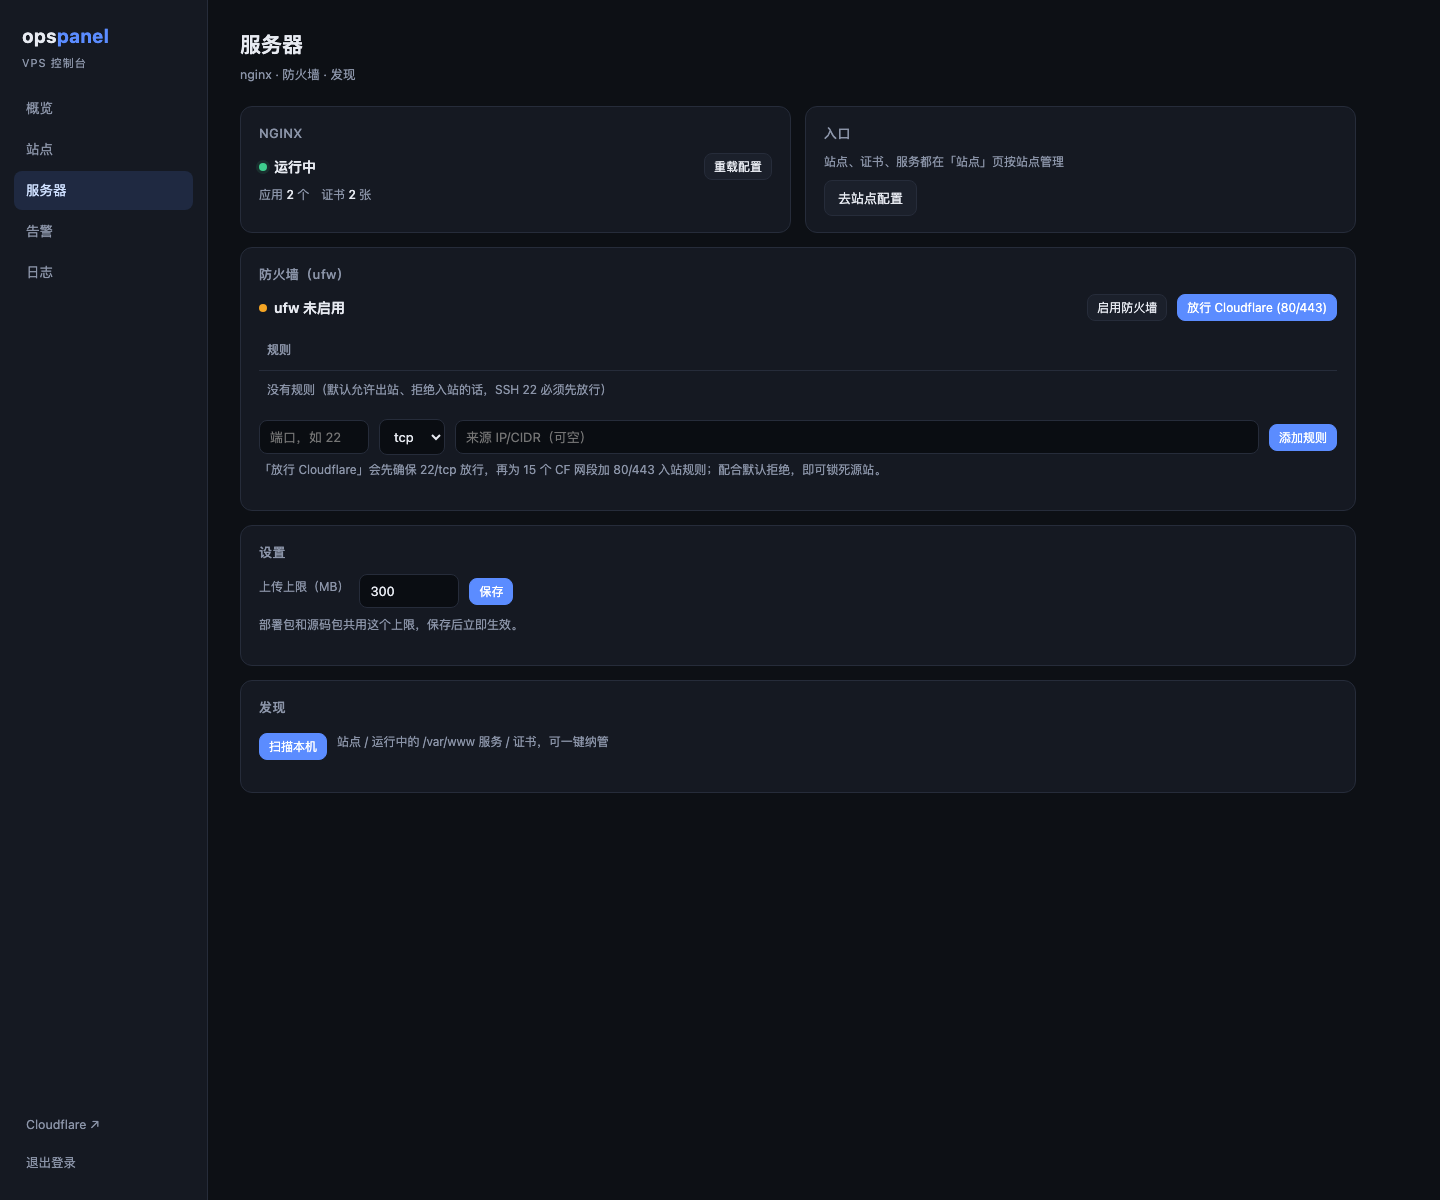
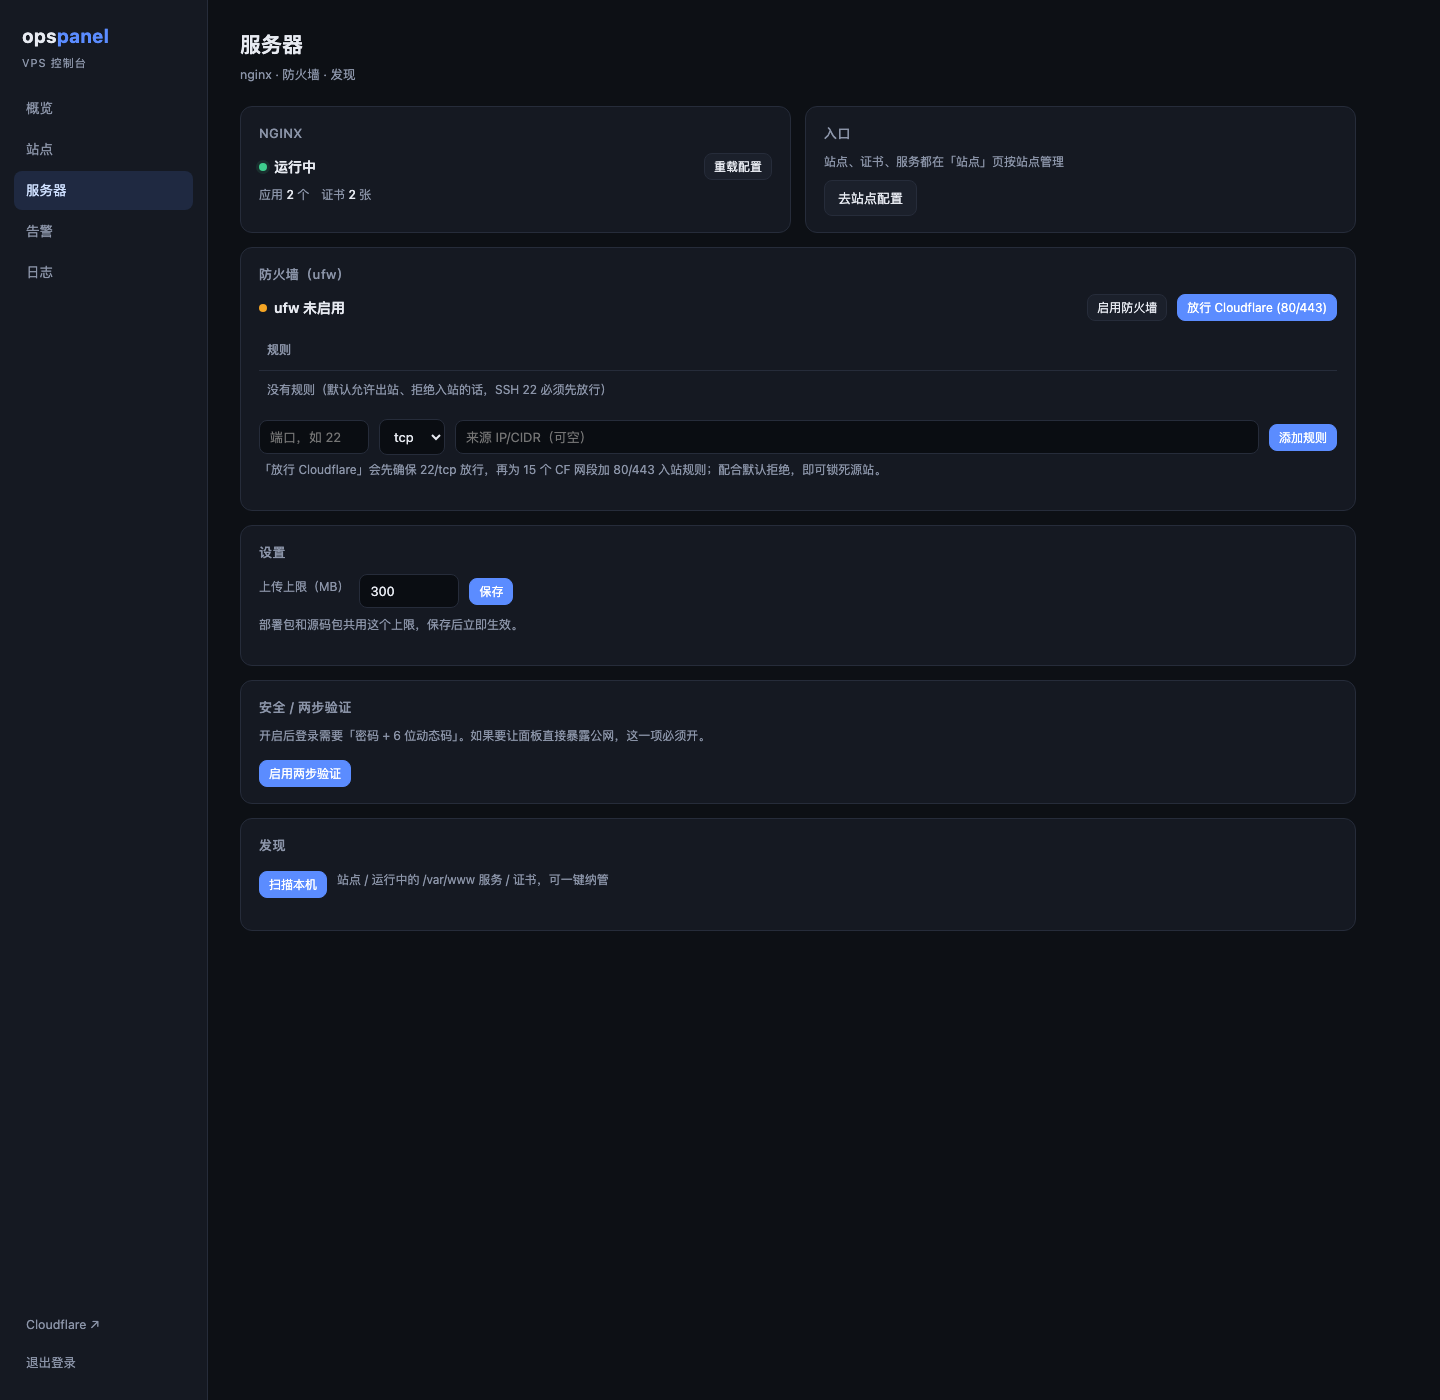
feat: TOTP 2FA, Beijing time, TLS and direct-access docs

diff --git a/web/app.js b/web/app.js
@@ -146,6 +146,7 @@ async function renderServer() {
   const d = await api('/api/overview');
   const fw = await api('/api/firewall');
   const st = await api('/api/settings');
+  const sec = await api('/api/security');
   if (!d.ok) { $('#main').innerHTML = '<h1>服务器</h1><div class="sub">' + esc(d.error) + '</div>'; return; }
 
   /* 防火墙 */
@@ -189,6 +190,20 @@ async function renderServer() {
     '<input type="text" id="setUpload" value="' + esc(st.max_upload_mb) + '" style="width:100px">' +
     '<button class="sm primary" id="saveSettings">保存</button></div>' +
     '<div class="hint">部署包和源码包共用这个上限，保存后立即生效。</div></div>' +
+    '<div class="card" style="margin-top:14px"><h3>安全 / 两步验证</h3>' +
+    (sec.enabled
+      ? '<div class="svc"><div class="name"><span class="dot ok"></span>两步验证已开启</div>' +
+        '<button class="sm danger" id="disable2fa">关闭</button></div>' +
+        '<div class="hint">恢复码剩余 ' + esc(sec.recovery_left) + ' 个。公网访问时请保持开启。</div>'
+      : '<div class="hint">开启后登录需要「密码 + 6 位动态码」。如果要让面板直接暴露公网，这一项必须开。</div>' +
+        '<div class="row"><button class="sm primary" id="enable2fa">启用两步验证</button></div>' +
+        '<div id="tfaBox" style="display:none;margin-top:10px">' +
+        '<div class="hint">在 Google Authenticator / 1Password / 微软验证器里手动添加这个密钥（TOTP）：</div>' +
+        '<pre class="log" id="tfaSecret" style="height:auto;max-height:80px"></pre>' +
+        '<div class="hint mono" id="tfaUri" style="word-break:break-all"></div>' +
+        '<div class="row" style="margin-top:8px"><input type="text" id="tfaCode" placeholder="6 位验证码" style="width:150px" inputmode="numeric">' +
+        '<button class="sm primary" id="confirm2fa">确认启用</button></div></div>') +
+    '</div>' +
     '<div class="card" style="margin-top:14px"><h3>发现</h3>' +
     '<div class="row"><button class="sm primary" id="scanBtn">扫描本机</button>' +
     '<span class="hint">站点 / 运行中的 /var/www 服务 / 证书，可一键纳管</span></div>' +
@@ -230,6 +245,37 @@ async function renderServer() {
   });
 
   /* 发现 handlers */
+  const enable2fa = $('#enable2fa');
+  if (enable2fa) enable2fa.onclick = async () => {
+    const r = await api('/api/security/setup', { method: 'POST' });
+    if (!r.ok) { toast(r.error || '生成失败', 'err'); return; }
+    window.__tfaSecret = r.secret;
+    $('#tfaSecret').textContent = r.secret;
+    $('#tfaUri').textContent = r.uri;
+    $('#tfaBox').style.display = 'block';
+  };
+  const confirm2fa = $('#confirm2fa');
+  if (confirm2fa) confirm2fa.onclick = async () => {
+    const r = await api('/api/security/enable', {
+      method: 'POST', headers: { 'Content-Type': 'application/json' },
+      body: JSON.stringify({ secret: window.__tfaSecret, code: $('#tfaCode').value.trim() }),
+    });
+    if (!r.ok) { toast(r.error, 'err'); return; }
+    alert('两步验证已开启。请保存下面 8 个恢复码（每个只能用一次）：\n\n' + r.recovery.join('\n'));
+    renderServer();
+  };
+  const disable2fa = $('#disable2fa');
+  if (disable2fa) disable2fa.onclick = async () => {
+    const pw = prompt('输入管理密码'); if (!pw) return;
+    const code = prompt('输入当前 6 位动态码（或用恢复码）'); if (!code) return;
+    const r = await api('/api/security/disable', {
+      method: 'POST', headers: { 'Content-Type': 'application/json' },
+      body: JSON.stringify({ password: pw, code: code }),
+    });
+    toast(r.ok ? '已关闭两步验证' : (r.error || '失败'), r.ok ? 'ok' : 'err');
+    if (r.ok) renderServer();
+  };
+
   const saveSet = $('#saveSettings');
   if (saveSet) saveSet.onclick = async () => {
     const r = await api('/api/settings', {

diff --git a/web/login.html b/web/login.html
@@ -12,6 +12,7 @@
     <h1>ops<span style="color:var(--accent)">panel</span></h1>
     <div class="sub">VPS 控制台 · 仅限本机隧道访问</div>
     <input type="password" id="pw" placeholder="管理密码" autocomplete="current-password" autofocus>
+    <input type="text" id="code" placeholder="动态验证码（开启 2FA 后必填）" inputmode="numeric" autocomplete="one-time-code" maxlength="10">
     <button class="primary" type="submit">进入</button>
     <div class="login-err" id="err"></div>
   </form>
@@ -24,7 +25,10 @@ document.getElementById('form').addEventListener('submit', async (e) => {
   const res = await fetch('/api/login', {
     method: 'POST',
     headers: {'Content-Type': 'application/json'},
-    body: JSON.stringify({password: document.getElementById('pw').value}),
+    body: JSON.stringify({
+      password: document.getElementById('pw').value,
+      code: document.getElementById('code').value.trim(),
+    }),
   });
   const data = await res.json().catch(() => ({}));
   if (res.ok && data.ok) { location.href = '/'; }

diff --git a/DEPLOY.md b/DEPLOY.md
@@ -62,7 +62,118 @@ ssh root@<IP> 'cd /root && tar xzf ops-panel.tar.gz && bash ops-panel/install.sh
 6. **告警**页填 RemindHub 地址和 Token，点「测试推送」
 7. 需要锁源站时，用「放行 Cloudflare (80/443)」，再确认 22/tcp 已放行
 
-## 五、更新版本
+## 五、访问方式（四选一）
+
+### A. SSH 隧道（默认，最安全）
+
+```bash
+ssh -N -L 9100:127.0.0.1:9100 root@<IP>
+```
+
+浏览器打开 `http://127.0.0.1:9100`。适合偶尔管理，不需要开放任何端口。
+
+### B. 域名 + nginx 反代 + HTTPS（推荐想直接打开网页的）
+
+面板继续只监听 `127.0.0.1:9100`，用现有 nginx 反代出去：
+
+```nginx
+server {
+    listen 443 ssl http2;
+    server_name panel.example.com;
+
+    ssl_certificate     /etc/ssl/cloudflare/panel.example.com.pem;
+    ssl_certificate_key /etc/ssl/cloudflare/panel.example.com.key;
+
+    location / {
+        proxy_pass http://127.0.0.1:9100;
+        proxy_set_header Host $host;
+        proxy_set_header X-Real-IP $remote_addr;
+        proxy_set_header X-Forwarded-Proto $scheme;
+    }
+}
+```
+
+没有证书就 `certbot --nginx -d panel.example.com`，然后 `ufw allow 443/tcp`。
+访问 `https://panel.example.com`，记得先开 2FA。
+
+### C. 直接 IP:9100（不推荐，但你坚持就按这个加固）
+
+面板有改 nginx、启停服务、执行部署的权限，直接暴露等于把半个 root 挂公网。**必须同时满足**：
+
+1. 先开 2FA（见下一节）
+2. 改 `/etc/ops-panel/config.json`：`"bind": "0.0.0.0"`
+3. 配 TLS（二选一）：
+   - 面板自带：`"tls_cert"` / `"tls_key"` 指向证书和私钥，重启后走 `https://IP:9100`（自签证书浏览器会警告）
+   - 前面套 nginx 反代（同方案 B），面板仍留在 127.0.0.1
+4. 防火墙只放行你的固定 IP：
+
+```bash
+ufw allow from 你的家用IP to any port 9100 proto tcp
+ufw allow from 你的公司IP to any port 9100 proto tcp
+ufw deny 9100/tcp
+systemctl restart ops-panel
+```
+
+5. 没有 2FA、没有 HTTPS、没有 IP 白名单，这三样缺一个都别开。
+
+### D. Cloudflare Tunnel + Access（不开端口，手机也能访问）
+
+适合“要域名、要 HTTPS、不想暴露源站”的场景。
+
+```bash
+# 1. 安装 cloudflared
+curl -L https://github.com/cloudflare/cloudflared/releases/latest/download/cloudflared-linux-amd64.deb -o /tmp/cf.deb
+dpkg -i /tmp/cf.deb
+
+# 2. 登录并建隧道
+cloudflared tunnel login
+cloudflared tunnel create ops-panel
+```
+
+`/root/.cloudflared/config.yml`：
+
+```yaml
+tunnel: <tunnel-uuid>
+credentials-file: /root/.cloudflared/<tunnel-uuid>.json
+ingress:
+  - hostname: panel.example.com
+    service: http://127.0.0.1:9100
+  - service: http_status:404
+```
+
+```bash
+cloudflared tunnel route dns ops-panel panel.example.com
+cloudflared service install
+systemctl enable --now cloudflared
+```
+
+然后在 Cloudflare Zero Trust → Access → Applications 新建 Self-hosted 应用：
+- 域名填 `panel.example.com`
+- 策略：Allow → Emails → 填你自己的邮箱
+- 认证方式选 One-time PIN
+
+之后访问 `https://panel.example.com`，先收邮箱验证码，再输面板密码 + 动态码。源站不需要开放 9100。
+
+## 六、两步验证（2FA）
+
+服务器 → 安全 / 两步验证 → 启用：
+
+1. 页面会给出一个 TOTP 密钥和 `otpauth://` 链接
+2. 在 Google Authenticator / 1Password / 微软验证器里手动添加该密钥
+3. 输入手机上的 6 位码确认
+4. **保存弹出的 8 个恢复码**，每个只能用一次
+
+开启后登录需要「密码 + 动态码」。关闭需要密码 + 动态码（或恢复码）。
+
+## 七、时区
+
+- `install.sh` 会自动执行 `timedatectl set-timezone Asia/Shanghai`
+- 面板自身的时间戳统一用北京时间（不依赖系统时区）
+- systemd 单元带 `Environment=TZ=Asia/Shanghai`
+- nginx 日志跟随系统时区，设置后重启一次 nginx：`systemctl restart nginx`
+- 检查：`timedatectl` 应显示 `Asia/Shanghai (CST, +0800)`
+
+## 八、更新版本
 
 ```bash
 cd /opt/ops-panel-src && git pull
@@ -70,15 +181,16 @@ bash install.sh          # 会覆盖代码，保留 /etc/ops-panel/config.json
 systemctl restart ops-panel
 ```
 
-## 六、备份与卸载
+## 九、备份与卸载
 
-- 配置：`/etc/ops-panel/config.json`（含密码哈希与 Token，权限 600）
+- 配置：`/etc/ops-panel/config.json`（含密码哈希、TOTP 密钥、Token，权限 600）
 - 状态：`/var/lib/ops-panel`、`/var/backups/ops-panel`、`/var/log/ops-panel`
 - 卸载：`systemctl disable --now ops-panel && rm -rf /opt/ops-panel /etc/ops-panel`
 
-## 七、安全注意
+## 十、安全注意
 
-- 面板只监听 `127.0.0.1`，不要改成 0.0.0.0 直接暴露公网
-- SSH 隧道账号建议用密钥登录
-- 面板以 root 运行（要操作 systemd 和 nginx），所以隧道是唯一入口
-- 推送 Token 泄露时，改 `config.json` 的 `deploy_token` 并重启
+- 能不开公网就不开；要开就走方案 B 或 D，并保持 2FA 开启
+- 面板以 root 运行（要操作 systemd 和 nginx）
+- 部署 Token 泄露时，改 `config.json` 的 `deploy_token` 并重启
+- 恢复码只显示一次，丢了就只能用密码 + 动态码；都丢了需要改配置重置
+

diff --git a/docs/SELF-CHECK.md b/docs/SELF-CHECK.md
@@ -11,6 +11,12 @@
 | 前端语法 | JavaScriptCore 解析 app.js | 通过 |
 | Shell 语法 | `bash -n install.sh deploy.sh bootstrap.sh demo/demo.sh` | 通过 |
 | 登录 / 会话 | curl 登录、未登录跳转 | 通过 |
+| 2FA 启用 | 生成 TOTP、6 位码确认、8 个恢复码 | 通过 |
+| 2FA 登录 | 无码 401、有码 200 | 通过 |
+| 恢复码 | 一次性使用、剩余数量递减、复用 401 | 通过 |
+| 关闭 2FA | 密码 + 动态码 | 通过 |
+| HTTPS 直连 | 自签证书 + tls_cert/tls_key | 通过 |
+| 北京时间 | 面板时间戳 +08、与系统一致 | 通过 |
 | 概览指标 | CPU/内存/负载/磁盘/网络/运行时长 | 通过（演示数据） |
 | 站点列表 | 域名、服务、证书、部署关联 | 通过 |
 | 站点预览 | /api/sites/preview 生成 80+443 | 通过 |
@@ -35,6 +41,8 @@
 | 真实 systemd 启停 | 本机无 systemd | 先在 VPS 上点一次「重启」，看 journal |
 | 真实 nginx -t / reload | 本机无 nginx | 先点「仅校验」，再保存一个小改动 |
 | 真实 ufw | 本机无 ufw | 先 `ufw status`，启用前确认 22/tcp 已放行 |
+| 直连 0.0.0.0 公网访问 | 需真实公网环境 | 开 2FA + 防火墙白名单后再改 bind |
+| Cloudflare Tunnel | 需 CF 账号与域名 | 按 DEPLOY.md 第五节 D 配置 |
 | install.sh | 需要 root + systemd | 在 VPS 上首次安装时观察输出 |
 | RHEL 系兼容 | 未测 | 需 firewalld 支持，当前只支持 ufw |
 
@@ -42,8 +50,10 @@
 
 1. VPS 快照 / 备份 `/etc/nginx`
 2. 安装后先看概览，确认服务与证书数据真实
-3. 站点页点「仅校验」
-4. 改一个小配置保存，确认 reload 正常
-5. 发一次部署，确认自动备份与回滚可用
-6. 配好 RemindHub，点「测试推送」
-7. 防火墙启用前保留另一个 SSH 会话
+3. **先启用 2FA 并保存恢复码**
+4. 站点页点「仅校验」
+5. 改一个小配置保存，确认 reload 正常
+6. 发一次部署，确认自动备份与回滚可用
+7. 配好 RemindHub，点「测试推送」
+8. 防火墙启用前保留另一个 SSH 会话
+9. 决定访问方式：SSH 隧道 / nginx 反代 / 直连 / Cloudflare Tunnel

diff --git a/README.md b/README.md
@@ -110,13 +110,24 @@ bash /root/ops-panel/install.sh
 
 安装完会打印：面板密码、部署令牌、隧道命令。密码同时存在 `/root/.ops-panel-password`。
 
-## 访问（只开本机，不走公网）
+## 访问（四选一）
+
+| 方式 | 适用 |
+|---|---|
+| SSH 隧道 | 默认，最安全，不开任何端口 |
+| nginx 反代 + HTTPS | 想直接用域名打开，面板仍留本机 |
+| 直连 IP:9100 | 不推荐；需 2FA + TLS + IP 白名单 |
+| Cloudflare Tunnel + Access | 不开端口、带邮箱验证、手机可用 |
+
+详细步骤（含 nginx 配置、cloudflared 命令、Access 策略）见 [DEPLOY.md 第五节](DEPLOY.md)。
+
+SSH 隧道最短路径：
 
 ```bash
 ssh -N -L 9100:127.0.0.1:9100 root@<IP>
 ```
 
-浏览器打开 `http://127.0.0.1:9100`。关掉隧道即断开，面板端口对公网不可见。
+浏览器打开 `http://127.0.0.1:9100`。
 
 ## 部署
 
@@ -142,8 +153,10 @@ OPS_HOST=root@<IP> OPS_TOKEN=<令牌> ~/ops-panel/deploy.sh my-site .
 
 ## 安全设计
 
-- 只监听 `127.0.0.1`，没有公网入口
-- 密码 PBKDF2-SHA256（20 万次），会话 Cookie `HttpOnly + SameSite=Strict`
+- 默认只监听 `127.0.0.1`；要公网访问推荐 nginx 反代 + HTTPS 或 Cloudflare Tunnel（见 DEPLOY.md）
+- 密码 PBKDF2-SHA256（20 万次），支持 TOTP 两步验证 + 8 个一次性恢复码
+- 会话 Cookie `HttpOnly + SameSite=Strict`
+- 所有时间戳统一北京时间（Asia/Shanghai）
 - 登录失败 5 次锁 5 分钟
 - 所有写操作要求 `X-Ops: 1` 头（CSRF）
 - 站点编辑：先备份 → 写临时文件 → `nginx -t` → 失败还原
